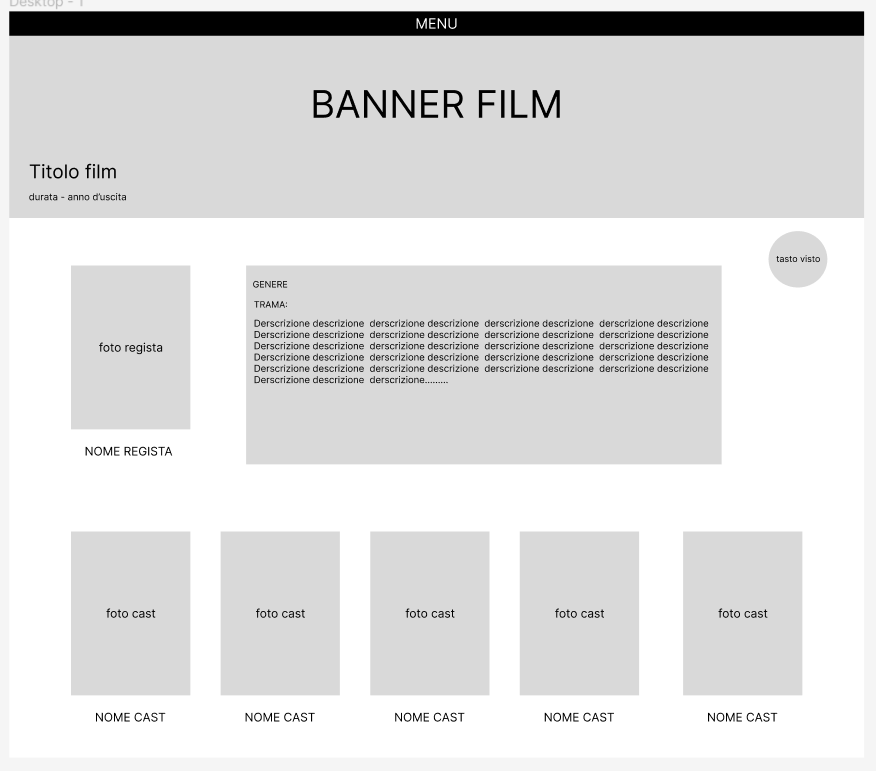
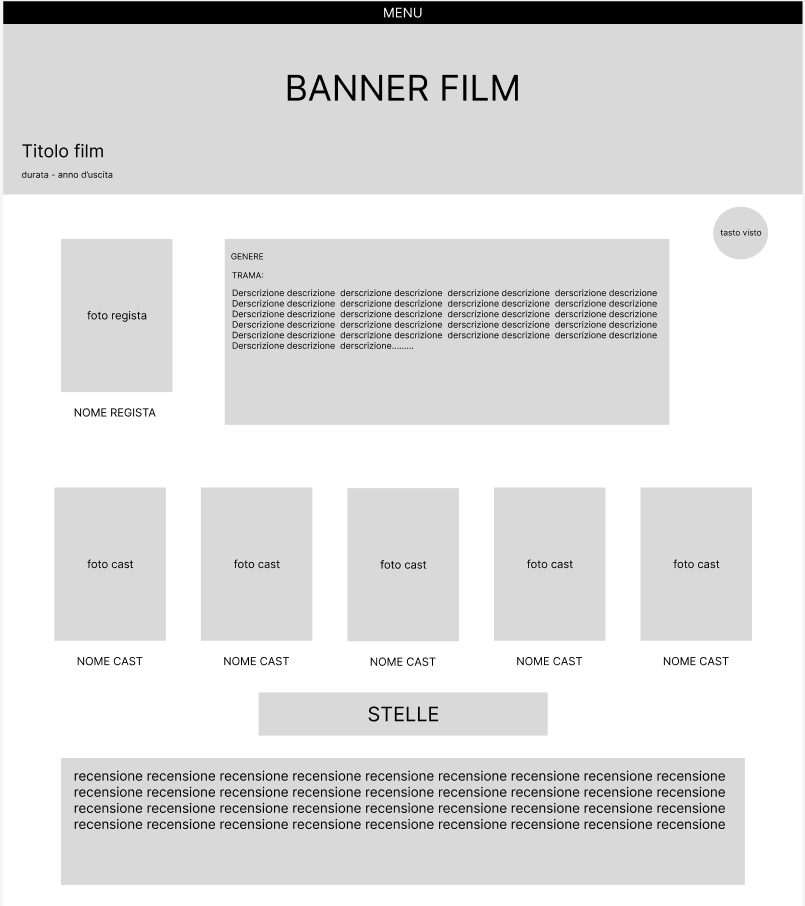
recensioni aggiunte

diff --git a/README.md b/README.md
@@ -26,8 +26,6 @@ FUNZIONALITÀ
 - inserimento/rimozione di un film da una lista personalizzata
 - contrassegnamento di un film come visto
 - visulizzazione delle liste di un utente
-
-//FACOLTATIVE
 - inserimento di una valutazione personale in stelle
 - inserimento di una valutazione personale come commento
 - funzione che estrae un film random tra quelli da vedere
@@ -36,7 +34,15 @@ MODELLO ER
 ![Alt text](modello/er.png)
 
 SCHEMA RELAZIONALE
-![Alt text](modello/schemaRelazionale.png)
+
+Utente (email*, username, password, foto_profilo)
+Lista(id*, nome, utente_email)
+Film (id*, titolo, Inno, durata, genere, trama, locandina, banner) Attore (id, nome, cognome, foto)
+Regista (id*, nome, cognome, data_nascita, data_morte, descrizione, foto)
+Recensione(id*, n_stelle, commento, utente_email, film_id)
+Comprende (lista id*, film id*)
+Recita (attore id*, film id*)
+Dirige (regista id*, film id*)
 
 MOCKUP
 
